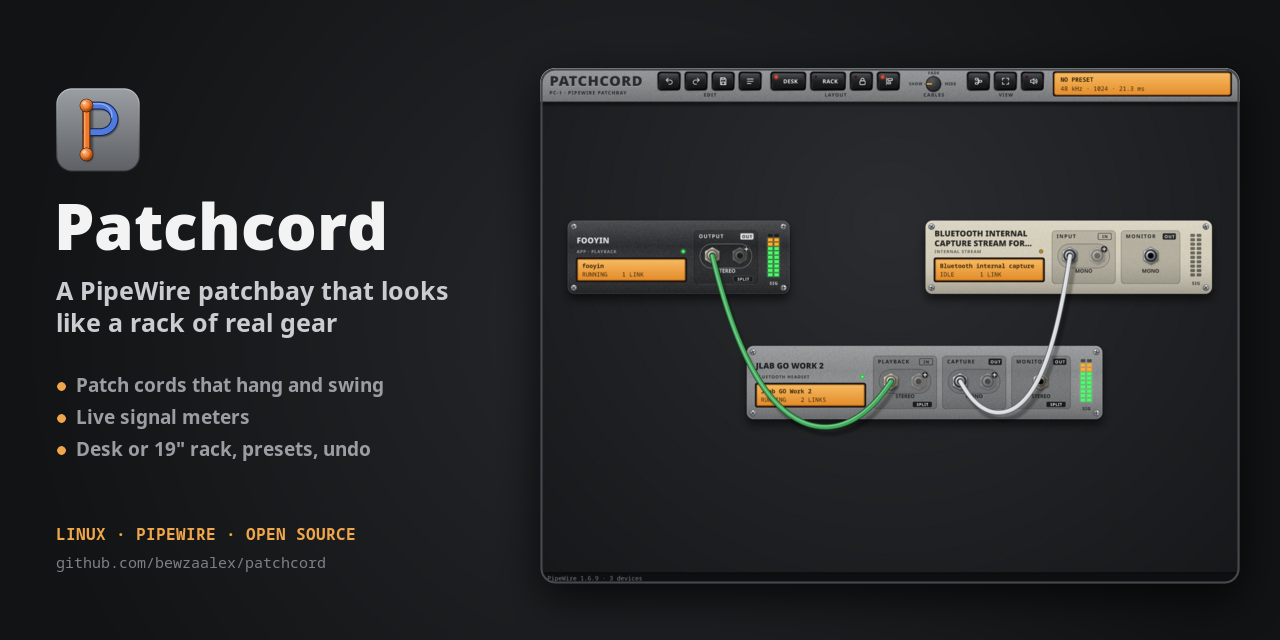
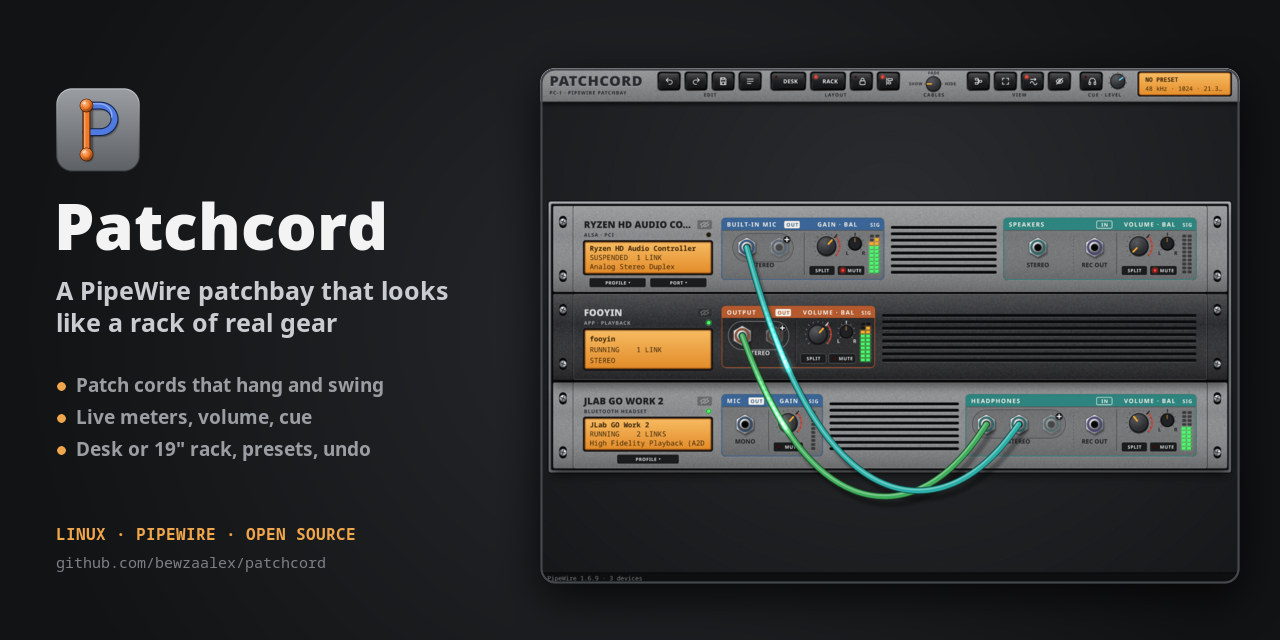
docs: the social preview for 0.4.0

Changed region(s): [[0.4062, 0.3125, 0.9688, 0.7812], [0.0938, 0.625, 0.25, 0.6875], [0.7812, 0.0938, 0.9375, 0.1562]]

diff --git a/docs/RELEASING.md b/docs/RELEASING.md
@@ -53,13 +53,14 @@ newer C library and PipeWire. Their contents are set in `Cargo.toml` under
    The repository's social preview (**Settings** → **General** → **Social preview**, uploaded by
    hand: GitHub has no API for it) is `docs/screenshots/social-preview.png`, 1280×640: the icon,
    the name, what it is and a few features on the left, kept 40 px from the edges, and the window
-   with three devices and their cords on the right. With some music playing, so the meters show
-   (pick devices that are there, an app playing first):
+   with three devices in the rack and their cords on the right (the rack stacks them, so they
+   come out big). With some music playing, so the meters show (pick devices that are there, an
+   app playing first):
 
    ```sh
    cfg=$(mktemp -d) t=$(mktemp -d) f=assets/fonts
-   XDG_CONFIG_HOME=$cfg PATCHCORD_SCALE=1.15 cargo run --release -- --render $t/win.png demo \
-     "only=fooyin,JLab GO Work 2,Bluetooth internal" size=1520x1120
+   XDG_CONFIG_HOME=$cfg PATCHCORD_SCALE=1.15 cargo run --release -- --render $t/win.png demo rack \
+     "only=fooyin,JLab GO Work 2,Ryzen" size=1520x1120
    magick $t/win.png -resize 700x \( +clone -alpha extract -fill black -colorize 100 -fill white -draw "roundrectangle 0,0,699,515,14,14" \) \
      -alpha off -compose CopyOpacity -composite -fill none -stroke '#45484d' -strokewidth 2 -draw "roundrectangle 1,1,698,514,14,14" \
      \( +clone -background black -shadow 75x22+0+14 \) +swap -background none -compose over -layers merge +repage $t/window.png
@@ -68,7 +69,7 @@ newer C library and PipeWire. Their contents are set in `Cargo.toml` under
      -font $f/NotoSans-Black.ttf -fill '#f3f3f3' -pointsize 64 -annotate +54+250 'Patchcord' \
      -font $f/NotoSans-Bold.ttf -fill '#c9ccd1' -pointsize 25 -annotate +56+300 'A PipeWire patchbay that looks' -annotate +56+332 'like a rack of real gear' \
      -font $f/NotoSans-Bold.ttf -fill '#9a9da2' -pointsize 19 -annotate +76+392 'Patch cords that hang and swing' \
-     -annotate +76+424 'Live signal meters' -annotate +76+456 'Desk or 19" rack, presets, undo' \
+     -annotate +76+424 'Live meters, volume, cue' -annotate +76+456 'Desk or 19" rack, presets, undo' \
      -fill '#f0a64a' -draw "circle 61,386 65,386" -draw "circle 61,418 65,418" -draw "circle 61,450 65,450" \
      -font $f/NotoSansMono-Bold.ttf -fill '#f0a64a' -pointsize 16 -annotate +56+540 'LINUX · PIPEWIRE · OPEN SOURCE' \
      -font $f/NotoSansMono-Regular.ttf -fill '#7d8085' -pointsize 15 -annotate +56+568 'github.com/bewzaalex/patchcord' \
